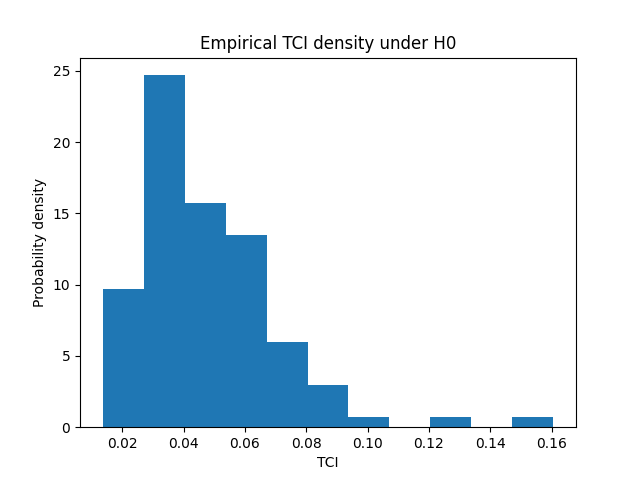
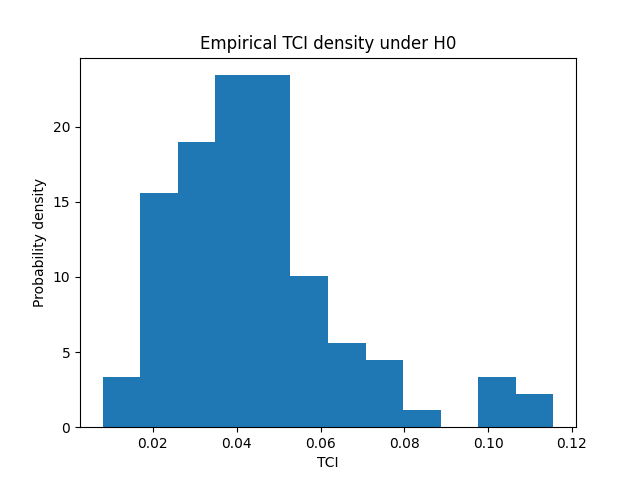
There is a bug in the code - almost never rejects H0 even though it is false

diff --git a/PyRKHSstats/kcit_checks.py b/PyRKHSstats/kcit_checks.py
@@ -136,18 +136,43 @@ if __name__ == '__main__':
     plt.close()
 
     # Example II : low-dimensional, CI does not hold
-    example2 = generate_low_dimensional_ci_example(nb_observations=N)
+    values_tci = np.zeros((nb_sim, 1))
+    values_threshold = np.zeros((nb_sim, 1))
+    values_rejection = np.zeros((nb_sim, 1))
 
-    kcit_example2 = perform_kcit(
-        data_x=example2['data_x'],
-        data_y=example2['data_y'],
-        data_z=example2['data_z'],
-        kernel_kx=example2['kernel_kx'],
-        kernel_ky=example2['kernel_ky'],
-        kernel_kz=example2['kernel_kz'],
-        epsilon=example2['epsilon'],
-        test_level=test_level,
-        scheme=ImplementedKCITSchemes.GAMMA
-    )
+    for i in range(nb_sim):
 
-    print(kcit_example2)
+        example2 = generate_low_dimensional_ci_example(nb_observations=N)
+
+        kcit_example2 = perform_kcit(
+            data_x=example2['data_x'],
+            data_y=example2['data_y'],
+            data_z=example2['data_z'],
+            kernel_kx=example2['kernel_kx'],
+            kernel_ky=example2['kernel_ky'],
+            kernel_kz=example2['kernel_kz'],
+            epsilon=example2['epsilon'],
+            test_level=test_level,
+            scheme=ImplementedKCITSchemes.GAMMA
+        )
+
+        values_tci[i, 0] = kcit_example2['TCI']
+        values_threshold[i, 0] = kcit_example2['Rejection threshold']
+        values_rejection[i, 0] = (
+            1 if values_tci[i, 0] > values_threshold[i, 0] else 0
+        )
+
+    df_example2 = pd.DataFrame()
+    df_example2['TCI'] = values_tci[:, 0]
+    df_example2['Rejection Threshold'] = values_threshold[:, 0]
+    df_example2['H0 Rejected'] = values_rejection[:, 0]
+    csv_filename = os.path.join(savedir, 'KCIT_example2.csv')
+    df_example2.to_csv(csv_filename, index=False)
+
+    plt.hist(values_tci[:, 0], bins='auto', density=True, stacked=True)
+    plt.xlabel('TCI')
+    plt.ylabel('Probability density')
+    plt.title('Empirical TCI density under H1')
+    plot_filename = os.path.join(savedir, 'TCI_histogram_example2.png')
+    plt.savefig(plot_filename)
+    plt.close()
